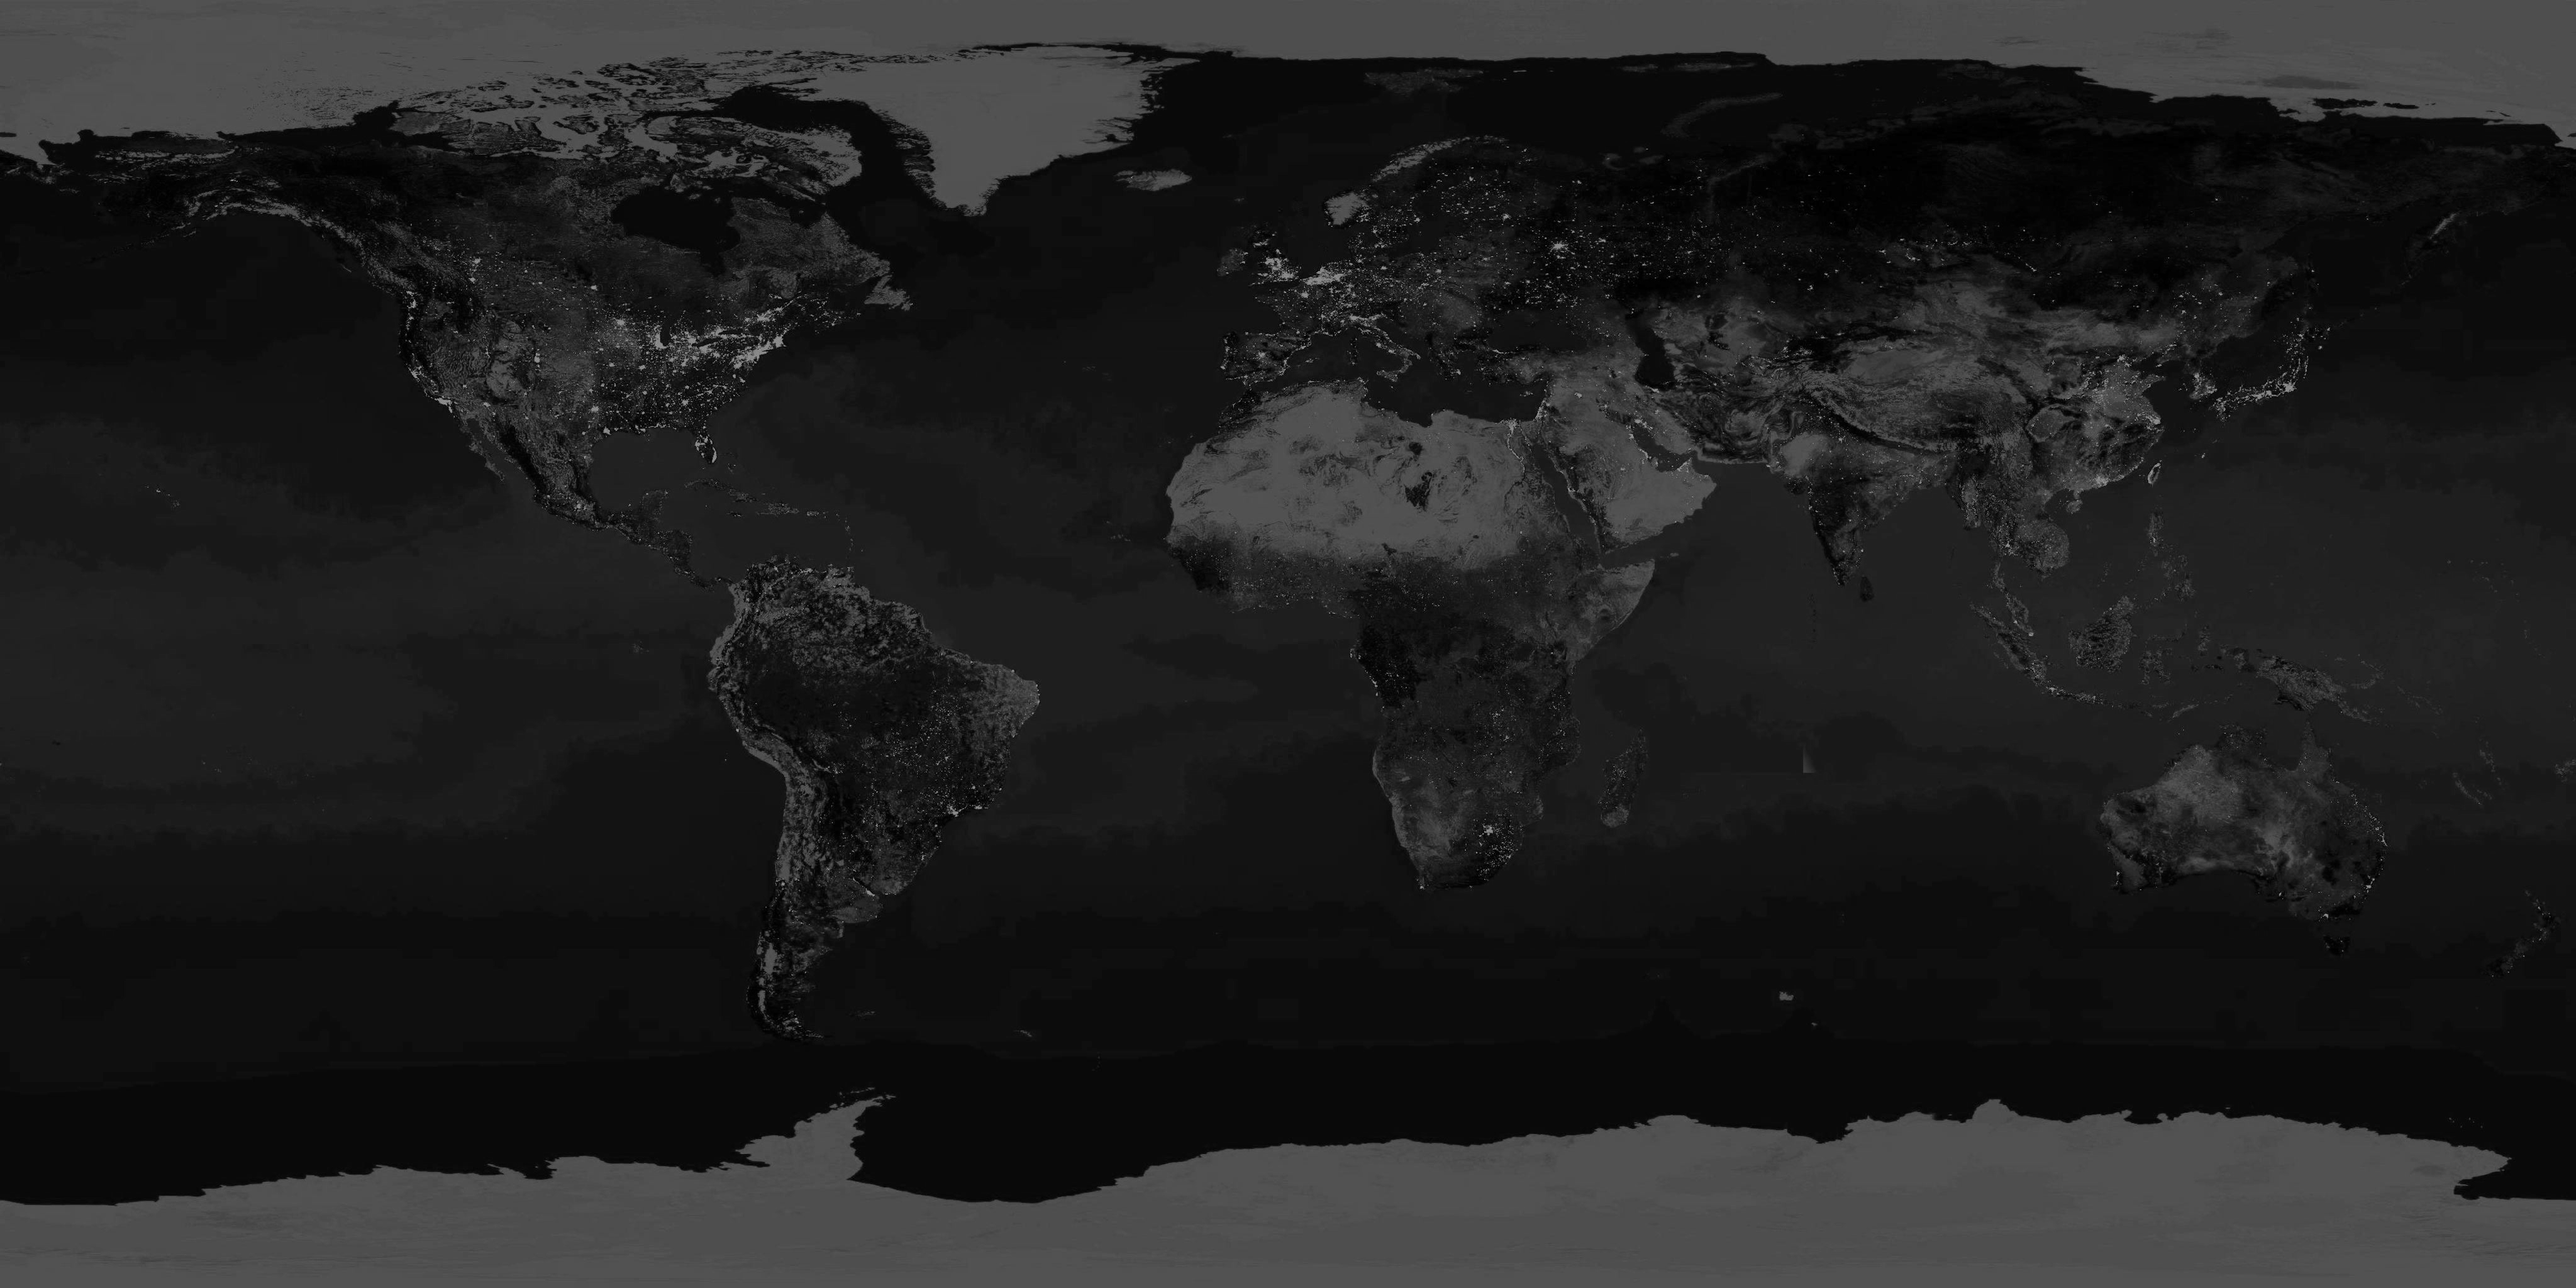
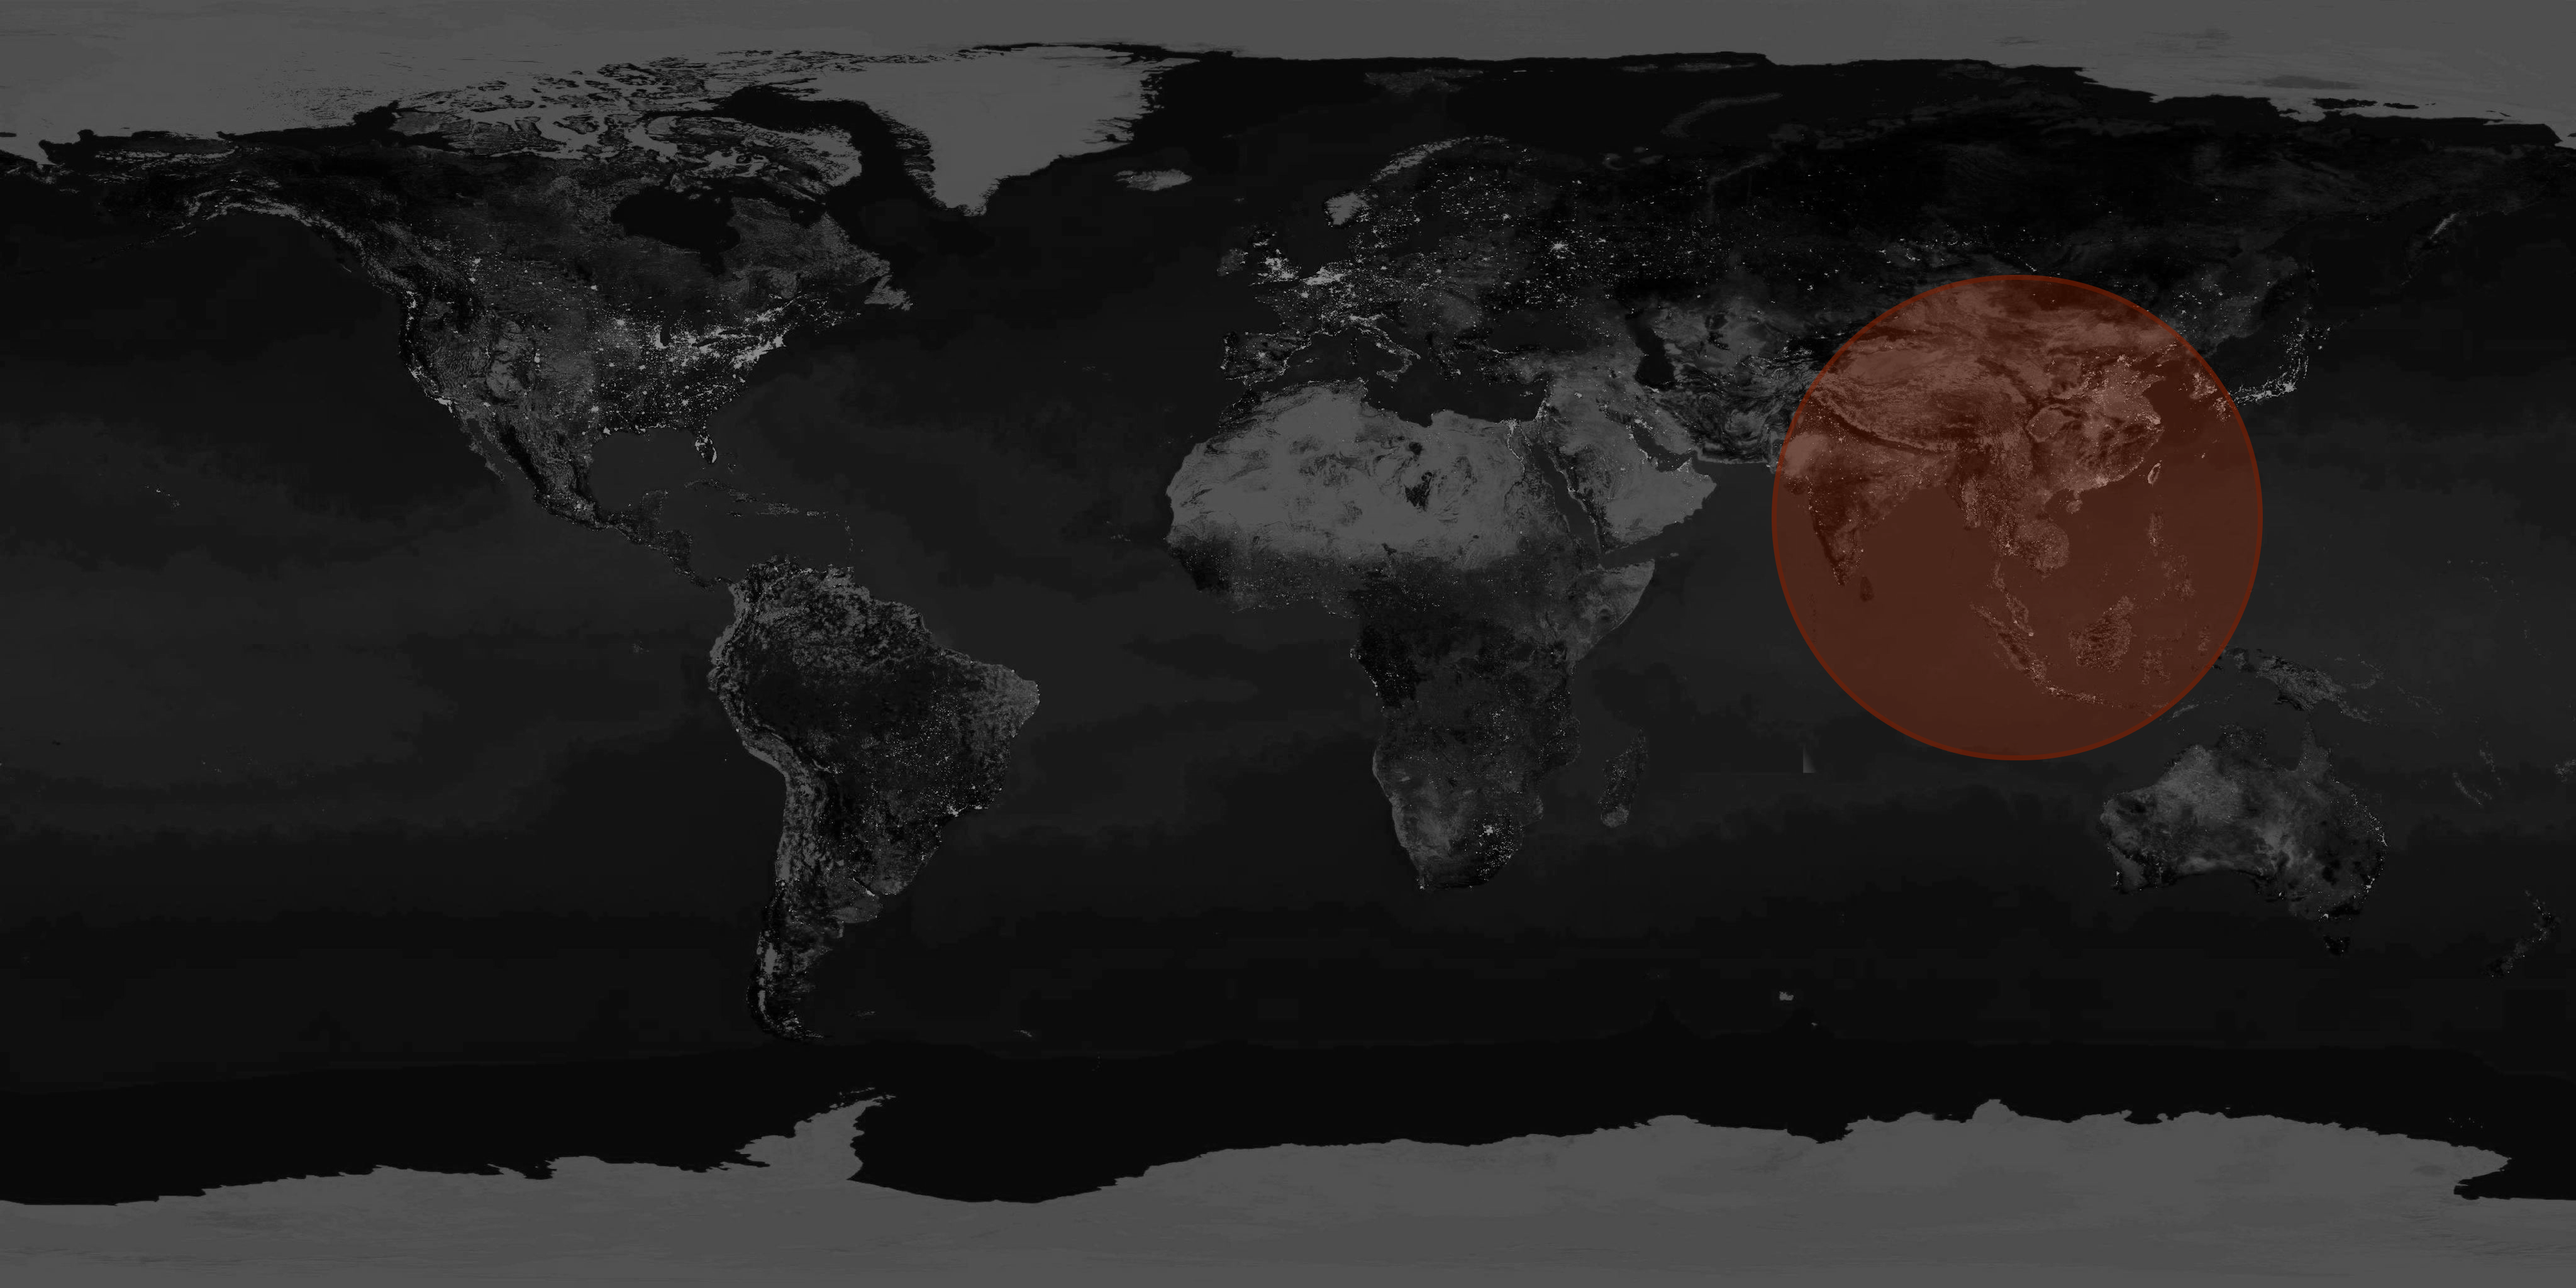
Update Globe and ComplexSystem components
- Set initial Globe view to India (lat: 20, lng: 78)
- Replace custom SVG rect with BorderAnimation component in ComplexSystem
- Update Globe section copy for better clarity
- Increase Globe section max-width to 1300px

🤖 Generated with [Claude Code](https://claude.com/claude-code)

Changed region(s): [[0.6875, 0.1875, 0.9062, 0.5938]]

diff --git a/src/components/landing/Globe.js b/src/components/landing/Globe.js
@@ -54,30 +54,10 @@ const Globe = () => {
     };
   }, []);
 
-  // Define marker points
-  const markerData = [
-    { lat: 20.5937, lng: 78.9629, size: 0.5, color: "#ffffff", label: "India" },
-    { lat: 37.0902, lng: -95.7129, size: 0.5, color: "#ffffff", label: "USA" },
-    {
-      lat: 51.5074,
-      lng: -0.1278,
-      size: 0.5,
-      color: "#ffffff",
-      label: "London",
-    },
-    {
-      lat: 35.6762,
-      lng: 139.6503,
-      size: 0.5,
-      color: "#ffffff",
-      label: "Tokyo",
-    },
-  ];
-
   useEffect(() => {
     if (globeEl) {
-      // Set initial camera position
-      globeEl.pointOfView({ lat: 0, lng: 0, altitude: 2 });
+      // Set initial camera position to India (lat: 20, lng: 78)
+      globeEl.pointOfView({ lat: 20, lng: 78, altitude: 2 });
 
       // Enable auto-rotation
       globeEl.controls().autoRotate = true;
@@ -91,7 +71,7 @@ const Globe = () => {
   return (
     <div
       ref={sectionRef}
-      className=" w-full max-w-[1400px] mx-auto z-10 flex flex-col items-center px-4 mt-[10%] gap-12 overflow-hidden"
+      className=" w-full max-w-[1300px] mx-auto z-10 flex flex-col items-center px-4 mt-[10%] gap-12 overflow-hidden"
     >
       <div className=" gap-10 md:gap-6 flex-col md:flex-row flex items-center">
         <p
@@ -101,9 +81,8 @@ const Globe = () => {
             transform: isVisible ? "translateX(0)" : "translateX(-30px)",
           }}
         >
-          Vanta was born out of sheer dissatisfaction. After spending lakhs of
-          money and hours of chase - a frustration with healthcare that never
-          met people where they are.
+          Born from sheer dissatisfaction - with healthcare that never met you
+          halfway.
         </p>
 
         <p
@@ -132,9 +111,8 @@ const Globe = () => {
             transitionDelay: "400ms",
           }}
         >
-          Healthcare is boring, extremely fragmented and siloed. With systemic
-          and systematic issues at every level, healthcare today isn&apos;t
-          engineered for peak health.
+          Healthcare is boring, fragmented, siloed - never built for peak
+          performance.
         </p>
       </div>
 
@@ -157,7 +135,6 @@ const Globe = () => {
           width={isMobile ? 250 : 600}
           height={isMobile ? 250 : 600}
           animateIn={true}
-          pointsData={markerData}
           pointAltitude={0.01}
           pointRadius={0.5}
           pointColor="color"

diff --git a/src/components/system/Splash.js b/src/components/system/Splash.js
@@ -87,16 +87,18 @@ const Splash = () => {
           <img
             src="/assets/images/vanta-logo.png"
             alt="Loading"
-            className=" w-[300px]  object-contain animate-pulse"
+            className=" w-[150px]  object-contain opacity-70"
           />
 
           <div className=" flex flex-col gap-3 items-center mb-10">
-            <p className="text-3xl  font-tussilago text-white/90 tracking-wider">
+            <p className="text-3xl font-bold font-tussilago text-white/90 tracking-wider">
               VANTA{" "}
-              <span className=" font-aoi text-white/70 tracking-wider">OS</span>
+              <span className=" font-aoi text-white/70 tracking-wider font-medium">
+                OS
+              </span>
             </p>
-            <p className="text-sm font-aoi text-white/70 tracking-wider">
-              {isValidEmail ? "Press ENTER to submit" : "initialising..."}
+            <p className="text-sm font-aoi text-white/70 tracking-tighter">
+              {isValidEmail ? "Press ENTER to submit" : "initializing..."}
             </p>
           </div>
 
@@ -141,9 +143,13 @@ const Splash = () => {
             opacity: step < 3 ? 1 : 0,
             transition: "opacity 0.5s ease-in-out",
           }}
-          className="md:text-4xl text-2xl text-center font-aoi text-white/90 tracking-wider"
+          className="md:text-2xl text-xl text-center font-aoi text-white/90 tracking-wider"
         >
-          YOUR <span className=" font-tussilago">HEALTH</span> IS COMPLEX
+          YOUR{" "}
+          <span className=" font-tussilago font-bold md:text-3xl text-2xl">
+            HEALTH
+          </span>{" "}
+          IS COMPLEX
         </h1>
       </div>
 
@@ -173,9 +179,12 @@ const Splash = () => {
             style={{
               animationDelay: "500ms",
             }}
-            className="md:text-3xl text-center md:text-left text-2xl font-aoi text-white/90 tracking-wider animate-fade-in duration-2000 opacity-0"
+            className="md:text-2xl text-center md:text-left text-xl font-aoi text-white/90 tracking-wider animate-fade-in duration-2000 opacity-0"
           >
-            YOUR <span className=" font-tussilago">HEALTHCARE</span>{" "}
+            YOUR{" "}
+            <span className=" font-tussilago font-bold md:text-3xl text-2xl">
+              HEALTHCARE
+            </span>{" "}
             DOESN&apos;T HAVE TO BE
           </h1>
         )}

diff --git a/src/components/system/ComplexSystem.js b/src/components/system/ComplexSystem.js
@@ -1,5 +1,6 @@
 import Aging from "./Aging";
 import BioMarkers from "./BioMarkers";
+import BorderAnimation from "./BorderAnimation";
 import Brain from "./Brain";
 import DietProtcol from "./DietProtcol";
 import DoctorNotes from "./DoctorNotes";
@@ -23,29 +24,19 @@ const ComplexSystem = () => {
         className=" absolute top-0 left-0 w-full h-px bg-border animate-line-expand-once"
         style={{ "--target-width": "100%", animationDelay: "200ms" }}
       ></div>
+      <div
+        className=" absolute top-0 left-[40px] max-w-px h-10 bg-border animate-line-expand-once"
+        style={{ "--target-width": "100%", animationDelay: "200ms" }}
+      ></div>
 
-      <div className=" absolute top-0 left-10 right-10 bottom-0 overflow-hidden">
-        <svg
-          className="absolute inset-0 pointer-events-none"
+      <div className=" absolute top-0 left-10 right-10 bottom-0 overflow-hidden ">
+        <BorderAnimation
           width="100%"
           height="100%"
-        >
-          <rect
-            x="0"
-            y="0"
-            width="100%"
-            height="100%"
-            fill="none"
-            stroke="#2e2e2e"
-            strokeWidth="1"
-            strokeDasharray="4000"
-            strokeDashoffset="4000"
-            style={{
-              animation: "border-draw-svg 0.8s ease-out forwards",
-              animationDelay: "400ms",
-            }}
-          />
-        </svg>
+          delay={400}
+          strokeWidth={2}
+        />
+
         {/* Group 1: Center - HumanModel */}
         <HumanModel delay={600} />
 

diff --git a/src/components/landing/OutliveOrdinary.js b/src/components/landing/OutliveOrdinary.js
@@ -35,7 +35,7 @@ const OutliveOrdinary = () => {
       ref={sectionRef}
       className="  w-full   flex flex-col items-center overflow-hidden "
     >
-      <div className=" w-full max-w-[1400px] mx-auto z-10 flex flex-col items-center px-4">
+      <div className=" w-full max-w-[1200px] mx-auto z-10 flex flex-col items-center px-4">
         <div
           className=" flex flex-col sm:flex-row items-start sm:items-center gap-4 pb-[10%] self-start transition-all duration-700 ease-out"
           style={{
@@ -72,7 +72,7 @@ const OutliveOrdinary = () => {
         }}
       />
 
-      <div className=" w-full max-w-[1400px] mx-auto z-10 flex flex-col items-center px-4  relative  mt-[10%] ">
+      <div className=" w-full max-w-[1200px] mx-auto z-10 flex flex-col items-center px-4  relative  mt-[10%] ">
         <img
           src="/assets/images/vanta-logo.png"
           alt="Vanta"

diff --git a/src/components/landing/Hero.js b/src/components/landing/Hero.js
@@ -64,7 +64,7 @@ const Hero = () => {
     return (
       <div
         key="mobile"
-        className=" min-h-screen w-full max-w-[1400px] mx-auto relative bg-black flex flex-col items-center "
+        className=" min-h-screen w-full max-w-[1200px] mx-auto relative bg-black flex flex-col items-center "
       >
         <AnimatedBackground />
         <div className=" flex-3 flex flex-col items-center justify-center w-full ">
@@ -141,7 +141,7 @@ const Hero = () => {
   return (
     <div
       key="desktop"
-      className=" min-h-screen w-full max-w-[1400px] mx-auto relative bg-black flex flex-col items-center "
+      className=" min-h-screen w-full max-w-[1200px] mx-auto relative bg-black flex flex-col items-center "
     >
       <AnimatedBackground />
       <div className=" flex-3 flex flex-col items-center justify-center">

diff --git a/src/app/globals.css b/src/app/globals.css
@@ -2,8 +2,8 @@
 
 @font-face {
   font-family: "Aoi Mono";
-  src: url("/assets/fonts/Aoi Mono/Aoi Mono - Standard.woff2") format("woff2"),
-    url("/assets/fonts/Aoi Mono/Aoi Mono - Standard.ttf") format("truetype");
+  src: url("/assets/fonts/Aoi Mono/Aoi Mono - Compact.otf") format("opentype"),
+    url("/assets/fonts/Aoi Mono/Aoi Mono - Compact.ttf") format("truetype");
   font-weight: normal;
   font-style: normal;
   font-display: swap;
@@ -110,7 +110,7 @@
 @theme inline {
   --color-background: var(--background);
   --color-foreground: var(--foreground);
-  --color-border: #2e2e2e;
+  --color-border: #3e3e3e;
   --font-aoi: var(--font-aoi);
   --font-aoi-compact: var(--font-aoi-compact);
   --font-tussilago: var(--font-tussilago);

diff --git a/src/components/system/BorderAnimation.js b/src/components/system/BorderAnimation.js
@@ -1,6 +1,6 @@
 import { Colors } from "@/lib/colors";
 
-const BorderAnimation = ({ width, height, delay = 0 }) => {
+const BorderAnimation = ({ width, height, delay = 0, strokeWidth = 1 }) => {
   return (
     <svg
       className="absolute inset-0 pointer-events-none"
@@ -15,7 +15,7 @@ const BorderAnimation = ({ width, height, delay = 0 }) => {
         height={height}
         fill="none"
         stroke={Colors.border}
-        strokeWidth="1"
+        strokeWidth={strokeWidth}
         strokeDasharray={2 * (width + height)}
         strokeDashoffset={2 * (width + height)}
         className="animate-border-draw-svg"

diff --git a/src/components/system/HeartRateChart.js b/src/components/system/HeartRateChart.js
@@ -22,9 +22,9 @@ const HeartRateChart = ({ animationDelay = 0 }) => {
   return (
     <div className="flex flex-col gap-2 flex-1">
       <div className="relative w-full h-15 bg-black/20 ">
-        {/* <GridLines verticalLines={15} horizontalLines={6} color="#2e2e2e50" /> */}
+        {/* <GridLines verticalLines={15} horizontalLines={6} color="#3e3e3e50" /> */}
 
-        {/* <GridLines verticalLines={15} horizontalLines={6} color="#2e2e2e" /> */}
+        {/* <GridLines verticalLines={15} horizontalLines={6} color="#3e3e3e" /> */}
 
         <svg
           className="absolute inset-0 w-full h-full"

diff --git a/src/components/system/Aging.js b/src/components/system/Aging.js
@@ -56,7 +56,7 @@ const Aging = ({ delay = 0 }) => {
         <div className="relative w-full h-10 bg-black/30 border border-border">
           {/* Tick marks */}
 
-          <GridLines verticalLines={30} horizontalLines={0} color="#2e2e2e50" />
+          <GridLines verticalLines={30} horizontalLines={0} color="#3e3e3e50" />
           <div className="absolute inset-0 flex justify-between px-2 py-2">
             {[0, 0.5, 1, 1.5].map((tick) => (
               <div key={tick} className="flex flex-col items-center">

diff --git a/src/components/system/BioMarkerTile.js b/src/components/system/BioMarkerTile.js
@@ -10,7 +10,7 @@ const BioMarkerTile = ({ label, dataPoints, animationDelay = 0 }) => {
       {/* Graph container */}
       <div className="relative w-[60px] h-[30px] border border-border">
         {/* Grid lines */}
-        <GridLines verticalLines={14} horizontalLines={8} color="#2e2e2e70" />
+        <GridLines verticalLines={14} horizontalLines={8} color="#3e3e3e70" />
 
         {/* Center horizontal line */}
         <div className="absolute left-0 right-0 h-px bg-border top-1/2" />

diff --git a/src/components/system/SleepStressChart.js b/src/components/system/SleepStressChart.js
@@ -34,7 +34,7 @@ const SleepStressChart = ({ animationDelay = 0 }) => {
   return (
     <div className="flex flex-col gap-2 flex-1">
       <div className="relative w-full h-15 bg-black/20 ">
-        {/* <GridLines verticalLines={15} horizontalLines={6} color="#2e2e2e50" /> */}
+        {/* <GridLines verticalLines={15} horizontalLines={6} color="#3e3e3e50" /> */}
         {/* Horizontal reference line */}
         <div className="absolute left-0 right-0 h-px bg-[#ffffff60] top-[30%]" />
 

diff --git a/src/components/system/Brain.js b/src/components/system/Brain.js
@@ -47,7 +47,7 @@ const Brain = ({ delay = 0 }) => {
         className=" w-full relative flex-1 border-t border-border flex items-center justify-center h-[120px] animate-scale-fade-in"
         style={{ animationDelay: `${contentDelay}ms` }}
       >
-        <GridLines verticalLines={15} horizontalLines={10} color="#2e2e2e50" />
+        <GridLines verticalLines={15} horizontalLines={10} color="#3e3e3e50" />
         <img
           src="/assets/images/brain.png"
           alt="Brain"
